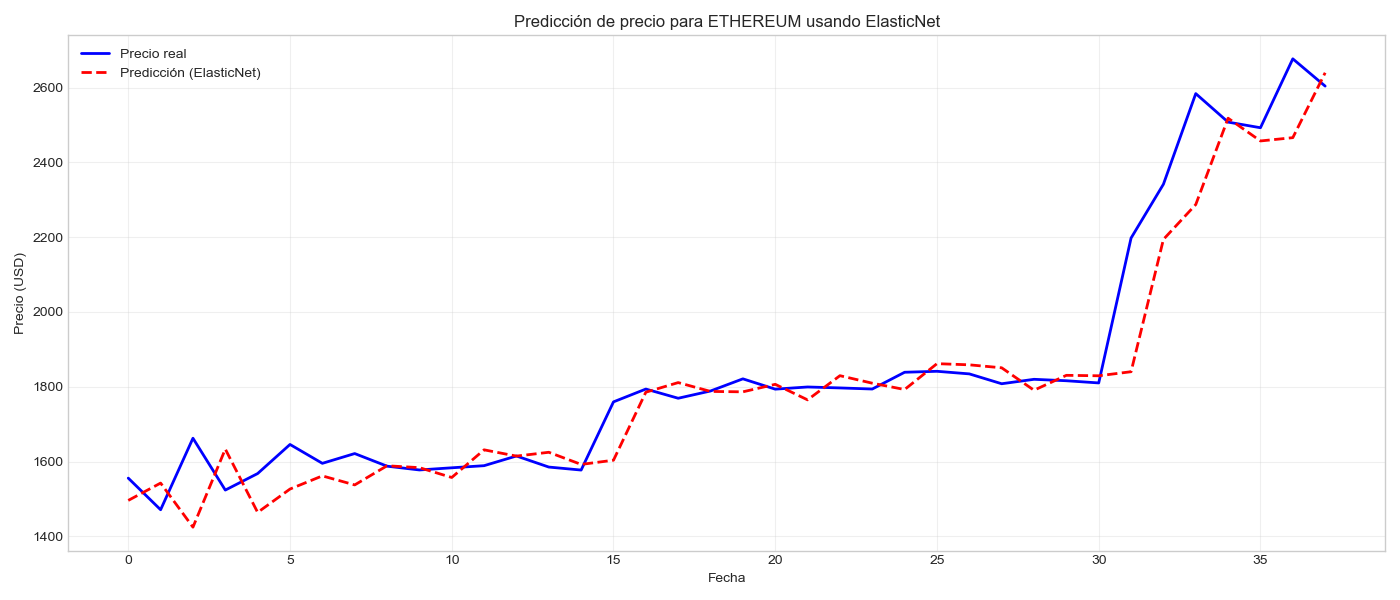
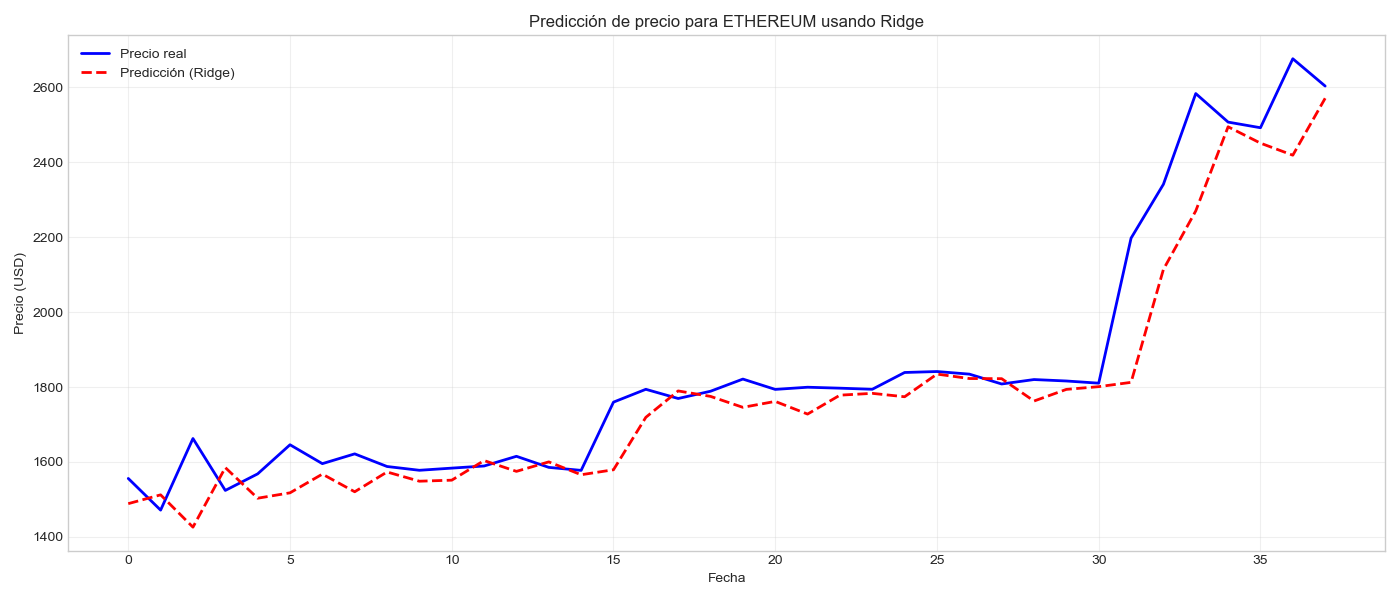
ajustes finales

diff --git a/README.md b/README.md
@@ -260,5 +260,9 @@ Recordá que debés iniciar Docker y ejecutar `docker-compose up -d` para inicia
 Las respuestas a las consignas 4.1 y 4.2 se encuentran en la notebook `EDA.ipynb`;
 4.3 se encuentra en la notebook `transform_data.ipynb` y 4.4 se encuentra en la notebook `models.ipynb`.
 
+Se compararon 4 modelos de regresión: Regresión Lineal, Regresión Ridge, Regresión Lasso y XGBoostRegressor.
+El modelo ganador fue Ridge.
+
+
 Los outputs se encuentran en la carpeta `data`.
 
